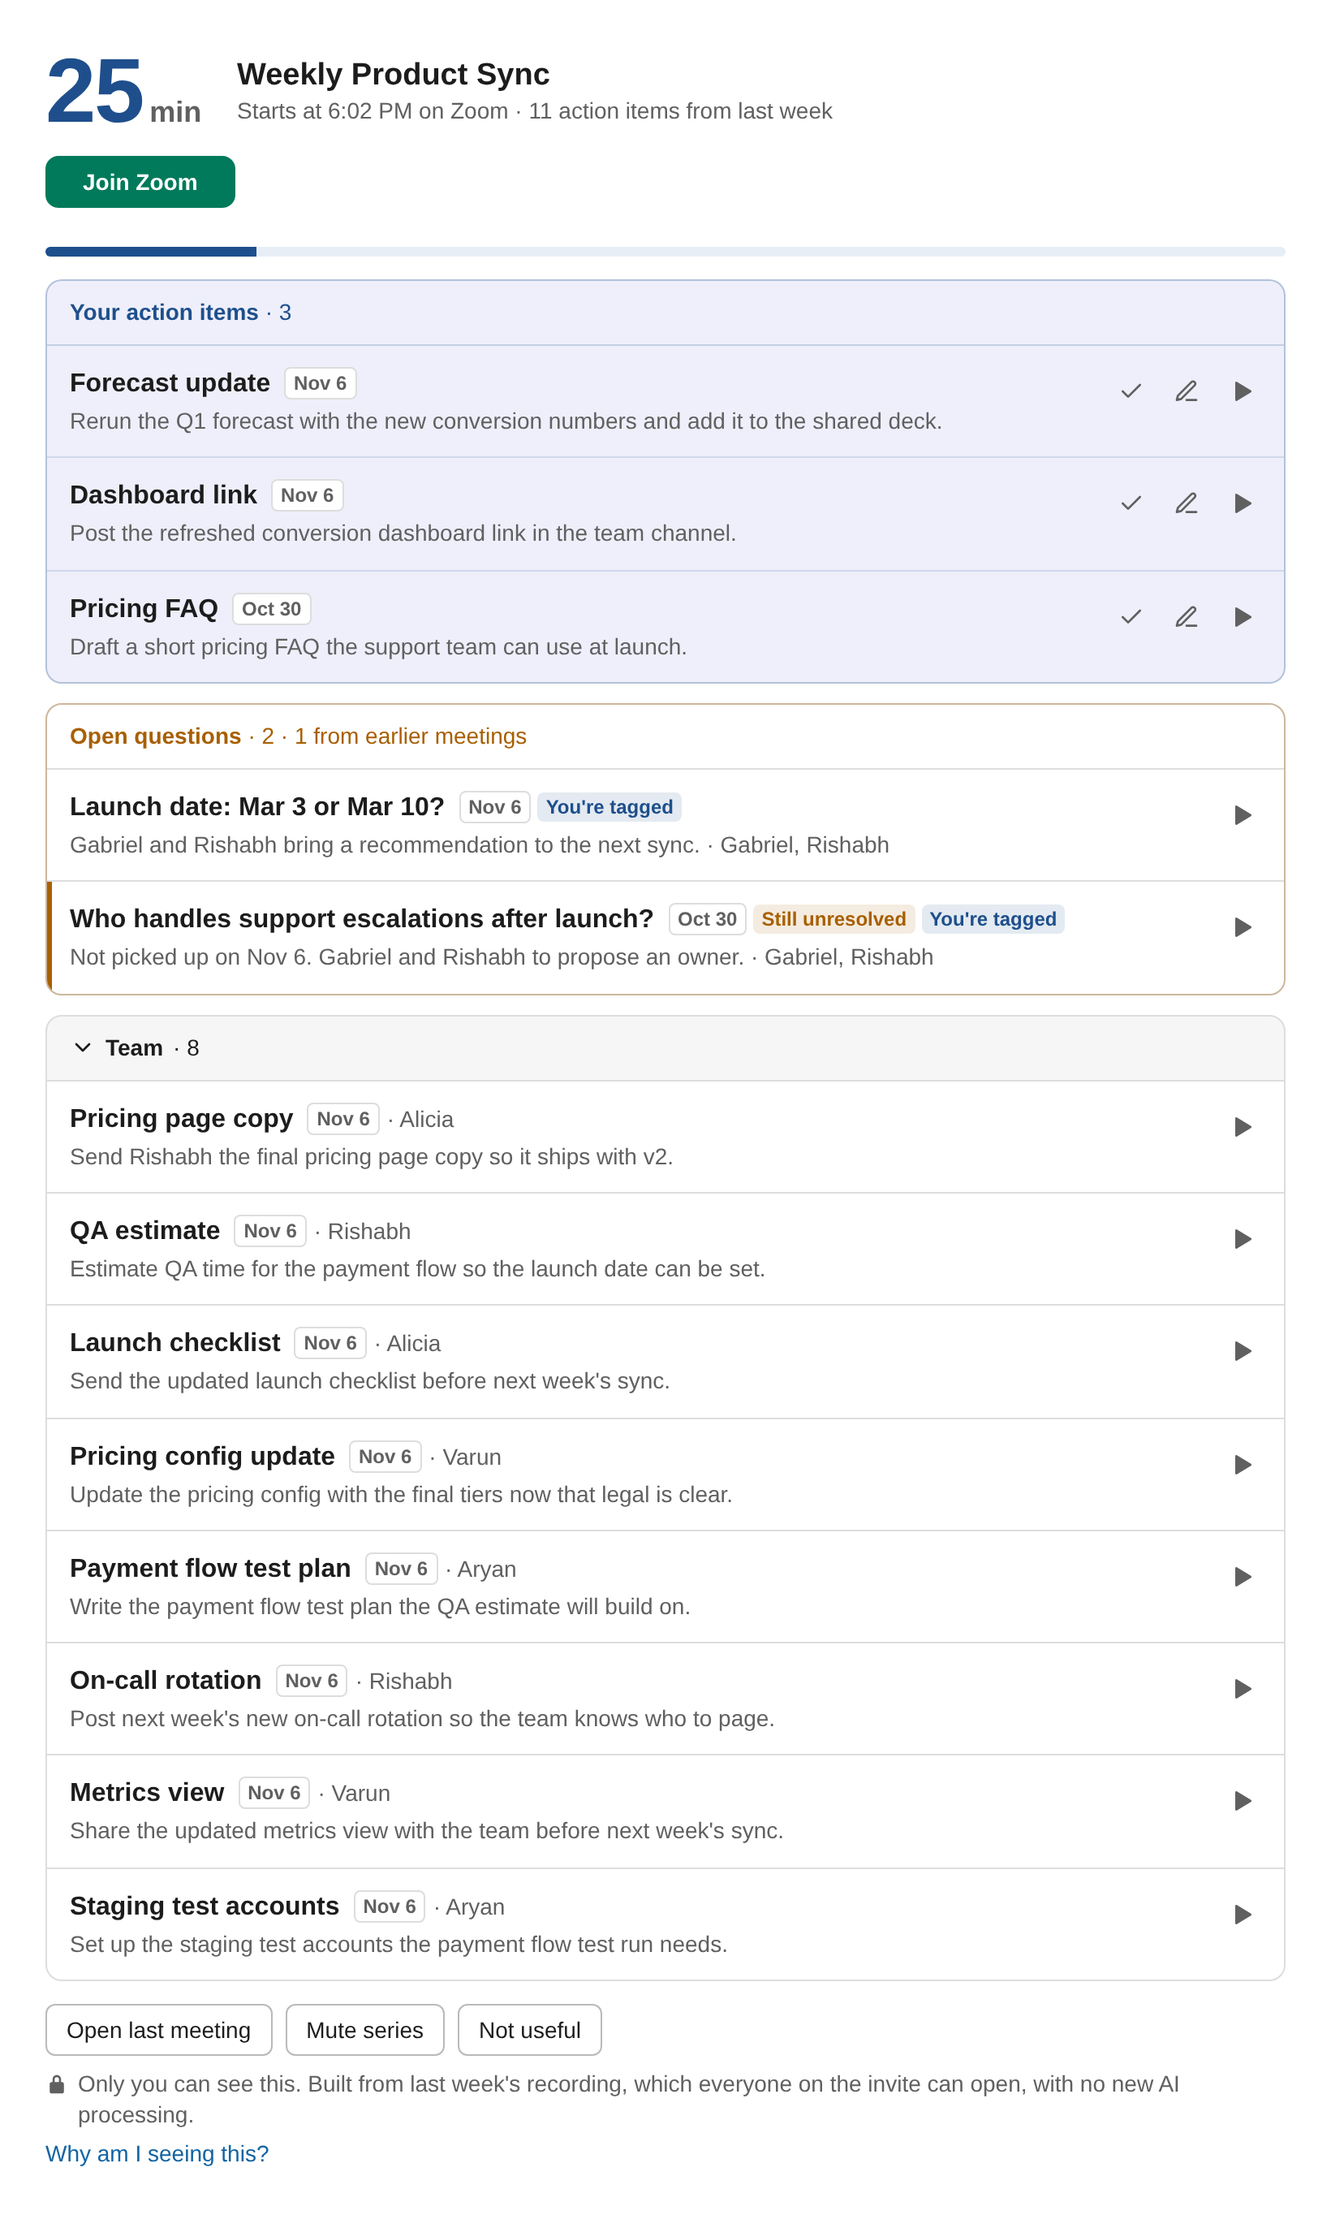
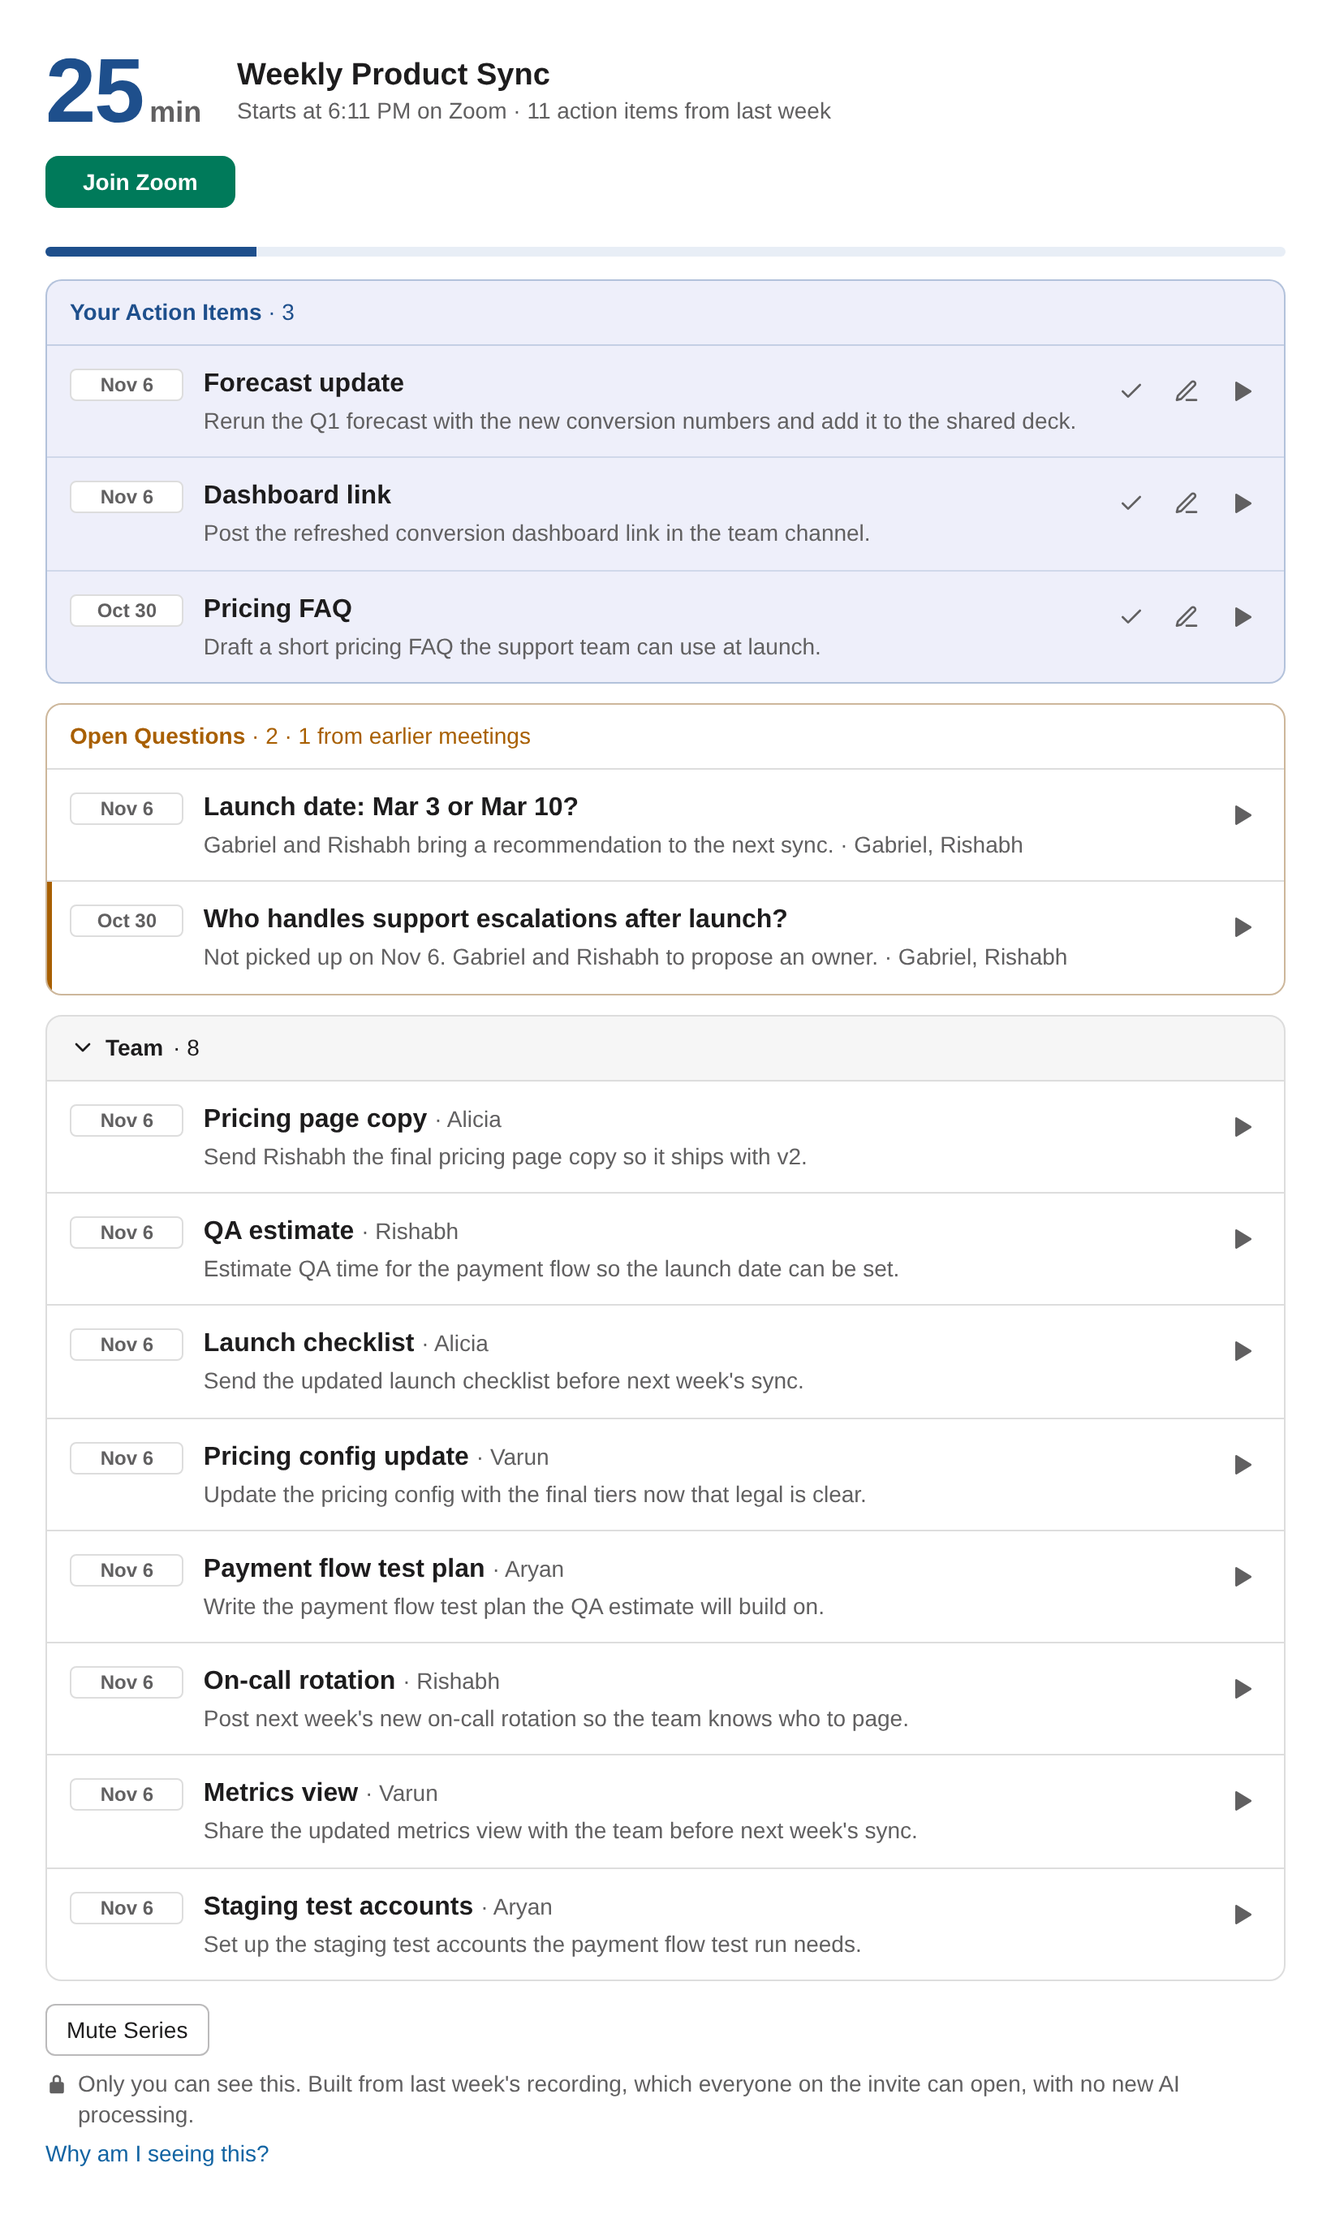
Heads-Up card in Ansel: aligned date column, plainer open questions, title-case headings, Mute Series only
Claude-Session: https://claude.ai/code/session_01SoGk1VkQgGD6LEJ7c356qP

diff --git a/card/heads-up-card.js b/card/heads-up-card.js
@@ -264,11 +264,13 @@
     :host([embedded]) .r.q.q-stale { box-shadow: inset 3px 0 0 var(--soon); }
     :host([embedded]) .tag { font-size: 12px; }
     :host([embedded]) .stack .rows { gap: 0; }
-    :host([embedded]) .r { grid-template-columns: minmax(0, 1fr) auto; column-gap: 12px; padding: 12px 10px 12px 14px; border-radius: 0; }
+    :host([embedded]) .r { grid-template-columns: 4.4em minmax(0, 1fr) auto; column-gap: 12px; padding: 12px 10px 12px 14px; border-radius: 0; }
     :host([embedded]) .r + .r { border-top: 1px solid var(--line); }
     :host([embedded]) .mine-stack .r + .r { border-top-color: color-mix(in srgb, var(--ansel) 14%, transparent); }
     :host([embedded]) .rail { display: none; }
-    :host([embedded]) .acts { grid-column: 2; align-self: start; justify-content: flex-end; flex-wrap: nowrap; gap: 2px; }
+    :host([embedded]) .dcol { align-self: start; padding-top: 2px; }
+    :host([embedded]) .dcol .tag.date { display: block; margin: 0; text-align: center; }
+    :host([embedded]) .acts { grid-column: 3; align-self: start; justify-content: flex-end; flex-wrap: nowrap; gap: 2px; }
     :host([embedded]) .ask { grid-column: 1 / -1; }
     :host([embedded]) .r.mine { background: none; }
     :host([embedded]) .r.mine.is-done { background: var(--done-bg); }
@@ -641,11 +643,12 @@
         aria-label="Play transcript${esc(spokenDate)} at ${esc(spokenStamp(item.seconds))}: ${esc(item.text)}">▶ ${esc(date)}${esc(fmtStamp(item.seconds))}</button>`;
     }
 
-    // Embedded: a small tag with the date of the meeting the item comes from ("Nov 6"). Standalone
-    // rows show the date on the ▶ button instead.
-    _dateTag(item) {
-      if (!this.hasAttribute('embedded') || !item.dateLabel) return '';
-      return ` <span class="tag date" title="From the ${esc(item.dateLabel)} meeting">${esc(item.dateLabel)}</span>`;
+    // Embedded: the date of the item's meeting ("Nov 6") as a fixed-width tag in the row's first
+    // column, so the dates line up down the card. Standalone rows show the date on the ▶ button instead.
+    _dateCol(item) {
+      if (!this.hasAttribute('embedded')) return '';
+      const tag = item.dateLabel ? `<span class="tag date" title="From the ${esc(item.dateLabel)} meeting">${esc(item.dateLabel)}</span>` : '';
+      return `<span class="dcol">${tag}</span>`;
     }
 
     // One action item. Status (YOURS, Mark done / ✓ Done, the green row) shows only on the viewer's own items.
@@ -706,8 +709,8 @@
         </div>` : '';
 
       const cls = ['r', mine ? 'mine' : '', done ? 'is-done' : '', flag ? 'is-flagged' : ''].join(' ').replace(/\s+/g, ' ').trim();
-      return `<div class="${cls}" role="listitem"><span class="rail" aria-hidden="true"></span>
-        <div class="t"><span class="task">${esc(it.text)}</span>${this._dateTag(it)}${it.edited ? ` <span class="edited" title="${esc(it.edited)}">Edited</span>` : ''}${who}${summary}</div>
+      return `<div class="${cls}" role="listitem"><span class="rail" aria-hidden="true"></span>${this._dateCol(it)}
+        <div class="t"><span class="task">${esc(it.text)}</span>${it.edited ? ` <span class="edited" title="${esc(it.edited)}">Edited</span>` : ''}${who}${summary}</div>
         <div class="acts">${acts.join('')}</div>${ask}</div>`;
     }
 
@@ -725,7 +728,7 @@
         // Embedded: stacked cards. Your action items, then Open questions, then Team, which folds
         // closed to its heading (closed by default; card.expanded = true opens it).
         const rowsOf = (items, isMine) => `<div class="rows" role="list">${items.map((it) => this._rowHtml(it, isMine)).join('')}</div>`;
-        const yours = mine.length ? `<section class="stack mine-stack" aria-label="Your action items"><div class="stack-h">Your action items <span class="n">· ${mine.length}</span></div>
+        const yours = mine.length ? `<section class="stack mine-stack" aria-label="Your Action Items"><div class="stack-h">Your Action Items <span class="n">· ${mine.length}</span></div>
             ${rowsOf(mine, true)}</section>` : '';
         const open = !!this._ui.showAll;
         const team = others.length ? `<section class="stack team-stack${open ? ' open' : ''}" aria-label="Team">
@@ -752,18 +755,17 @@
 
     _questionRowHtml(q) {
       const people = (q.stakeholders || []).map((p) => p.name).filter(Boolean);
-      // Embedded rows already carry the meeting date tag, so the stale tag just says it's still open.
-      const staleText = this._dateTag(q) ? 'Still unresolved' : `Unresolved since ${esc(q.dateLabel || 'earlier')}`;
+      // Embedded: just the date column; standalone rows flag older and tagged questions in words.
+      const emb = this.hasAttribute('embedded');
       const tags = [
-        this._dateTag(q),
-        q.carriedOver ? `<span class="tag stale" title="Raised ${esc(q.dateLabel || 'earlier')} and not resolved since">${staleText}</span>` : '',
-        q.mine ? '<span class="tag you">You\'re tagged</span>' : '',
+        !emb && q.carriedOver ? `<span class="tag stale" title="Raised ${esc(q.dateLabel || 'earlier')} and not resolved since">Unresolved since ${esc(q.dateLabel || 'earlier')}</span>` : '',
+        !emb && q.mine ? '<span class="tag you">You\'re tagged</span>' : '',
         q.edited ? '<span class="edited">Edited</span>' : '',
       ].join('');
       const who = people.length ? `<span class="who">${q.context ? ' · ' : ''}${esc(people.join(', '))}</span>` : '';
       const sub = q.context || who ? `<span class="summary">${q.context ? esc(q.context) : ''}${who}</span>` : '';
       const cls = ['r', 'q', q.mine ? 'q-mine' : '', q.carriedOver ? 'q-stale' : ''].join(' ').replace(/\s+/g, ' ').trim();
-      return `<div class="${cls}" role="listitem"><span class="rail" aria-hidden="true"></span>
+      return `<div class="${cls}" role="listitem"><span class="rail" aria-hidden="true"></span>${this._dateCol(q)}
         <div class="t"><span class="task">${esc(q.text)}</span> ${tags}${sub}</div>
         <div class="acts">${this._playButton(q, 'openQuestions')}</div></div>`;
     }
@@ -774,7 +776,7 @@
       const stale = qs.filter((q) => q.carriedOver).length;
       const note = stale ? ` <span class="n">· ${stale} from earlier meetings</span>` : '';
       if (this.hasAttribute('embedded')) {
-        return `<section class="stack q-stack" aria-label="Open questions"><div class="stack-h">Open questions <span class="n">· ${qs.length}</span>${note}</div>
+        return `<section class="stack q-stack" aria-label="Open Questions"><div class="stack-h">Open Questions <span class="n">· ${qs.length}</span>${note}</div>
           <div class="rows" role="list">${qs.map((q) => this._questionRowHtml(q)).join('')}</div></section>`;
       }
       return `<div class="qs"><div class="qs-h">Open questions · ${qs.length}${stale ? ` (${stale} from earlier meetings)` : ''}</div>
@@ -789,10 +791,12 @@
         ${this._rowsHtml(d)}
         ${this.hasAttribute('embedded') ? '' : this._questionsHtml(d)}
         ${ui.notUseful ? this._notUsefulHtml() : ''}
-        <div class="bar">
-          <button data-act="open-last" data-key="open-last" class="btn">Open last meeting</button>
+        <div class="bar">${this.hasAttribute('embedded')
+          // Embedded (Ansel): the app already has the meeting open, so only Mute Series.
+          ? '<button data-act="mute" data-key="mute" class="btn">Mute Series</button>'
+          : `<button data-act="open-last" data-key="open-last" class="btn">Open last meeting</button>
           <button data-act="mute" data-key="mute" class="btn">Mute series</button>
-          ${ui.notUseful ? '' : '<button data-act="not-useful" data-key="not-useful" class="btn">Not useful</button>'}
+          ${ui.notUseful ? '' : '<button data-act="not-useful" data-key="not-useful" class="btn">Not useful</button>'}`}
         </div>
         <div class="context foot">${LOCK}<span>Only you can see this. Built from ${esc(d.lastMeeting.label || "last week's recording")},
           which everyone on the invite can open, with no new AI processing.</span></div>

diff --git a/current_status.md b/current_status.md
@@ -15,7 +15,7 @@ This is not yet an always-on or production deployment. The current process runs 
 ## Completed
 
 - **Countdown follows the Slack ping (2026-11-13)**: every link in the Slack card now carries the meeting's real start (`&start=<epoch seconds>`). Opening it sets the prototype's clock so the Heads-Up countdown matches the Slack card, and reopening the link later continues the countdown instead of restarting at 1:25 PM. The prototype's clock now runs on real time, so it also keeps time in a background tab. Links without `start` behave as before. Needs the VM update (`setup-vm.sh`) after merge.
-- **Open questions on the Heads-Up card in Ansel (2026-11-13)**: the card now lists every open question still unresolved from the last meeting and the earlier ones you attended, under the action items. Questions you're tagged on come first ("You're tagged"); ones raised before last meeting are flagged "Still unresolved". Every row on the card, action items and questions, now has a small tag with its meeting's date ("Nov 6"). Order: your action items, open questions, then Team, which starts folded and opens from its heading. Hovering ▶ shows the date and timestamp instantly. Each has its summary context line, its stakeholders and ▶ to the transcript moment. New seed question q3 (Oct 30, Gabriel and Rishabh): "Who handles support escalations after launch?", not picked up on Nov 6. Slack card unchanged. Contract 2.3.
+- **Open questions on the Heads-Up card in Ansel (2026-11-13)**: the card now lists every open question still unresolved from the last meeting and the earlier ones you attended, under the action items. Questions you're tagged on come first ("You're tagged"); ones raised before last meeting are flagged "Still unresolved". Every row on the card, action items and questions, now has a small tag with its meeting's date ("Nov 6"). Order: Your Action Items, Open Questions, then Team, which starts folded and opens from its heading. Hovering ▶ shows the date and timestamp instantly. The date tag sits in its own column on the left so dates line up; open questions carry no extra tags; the footer has only Mute Series. Each has its summary context line, its stakeholders and ▶ to the transcript moment. New seed question q3 (Oct 30, Gabriel and Rishabh): "Who handles support escalations after launch?", not picked up on Nov 6. Slack card unchanged. Contract 2.3.
 - **Earlier meetings on the Slack card (2026-11-13)**: your action items still open from earlier meetings (up to 3 earlier recorded meetings you attended) now appear after last meeting's, and every timestamp names its meeting's date ("Pricing FAQ (Oct 30 · 24:10)"). Seed: one still-open item each for Gabriel and Rishabh (Oct 30) and Alicia and Varun (Oct 23), with transcript lines. Contract 2.1.
 - **Condensed Slack card live and confirmed in Slack (2026-11-13)**: one text block and one row of buttons (✓, Join Zoom, Open in Ansel, Mute Series, then a small "Open in Ansel to make changes." note; "You own N items" is bold; Still Open, Decided and Not Useful are off the Slack card); your item links to its transcript moment; several items of yours get checkboxes. Other people's items, Not right and the transcript are in Ansel. Previews and the real output: `card/slack-mockups/`. Zoom is the default demo join link.
 - **Slack card redesigned to match `card/` (contract 2.0)**: countdown with Join, every action item from last meeting with owners (yours first, `YOURS`), Mark done, Not right with reasons, Not useful with reasons, Mute with Undo, "Why am I seeing this?" and the trust footer; the same event names as `card/CONTRACT.md`. Card tests: `slack-app/test/card.mjs`.

diff --git a/card/CONTRACT.md b/card/CONTRACT.md
@@ -105,10 +105,10 @@ Setting `card.data` again re-renders from the new data. If it is the same viewer
 | (status) | Status shows only on the viewer's own items: YOURS, Mark done or "✓ Done", and the green row. Other people's rows never show open or done |
 | `item.seconds` | Position in the transcript of the item's meeting (`item.meetingId`, else last meeting); shown as mm:ss on the ▶ button |
 | `item.summary` | Optional, one short line under the task. Take it from Ansel's existing meeting summary, so the card adds no new AI processing. No due dates: those get set in the meeting |
-| (embedded, 2.3) | With `<heads-up-card embedded>` the card shows every item it is given, in stacked cards: **Your action items**, then **Open questions**, then **Team**. Team folds to its heading and starts closed; tapping the heading opens it, and the host can open it with `card.expanded = true`. Pass every item and `moreCount: 0` |
+| (embedded, 2.3) | With `<heads-up-card embedded>` the card shows every item it is given, in stacked cards: **Your Action Items**, then **Open Questions**, then **Team**. Team folds to its heading and starts closed; tapping the heading opens it, and the host can open it with `card.expanded = true`. Pass every item and `moreCount: 0` |
 | (embedded, 2.3) | Hovering or focusing ▶ shows the meeting date and timestamp ("Nov 6 · 14:32") straight away, as a tooltip with no delay |
 | (embedded, 2.2) | Embedded action items are two stacked cards, **Your action items · N** and **Team · N**, rows split by a hairline with borderless icon buttons on the right. Rows use icon buttons (▶ with date and time in its tooltip, ✓ Mark done, ✎ Edit), tint your own rows with `--mine-bg` with no name or YOURS tag (they sit under Your action items), and drop **Not right** from other people's items. Standalone rendering is unchanged |
-| (embedded, 2.3) | Every embedded row (action items and open questions) shows a small date tag for the meeting it comes from (`item.dateLabel`, e.g. "Nov 6"). Standalone rows keep the date on the ▶ button |
+| (embedded, 2.3) | Every embedded row (action items and open questions) starts with a fixed-width date tag for the meeting it comes from (`item.dateLabel`, e.g. "Nov 6"), so the dates line up down the card. Open questions show no "You're tagged" or "Unresolved since" tags when embedded (standalone keeps them). Headings read **Your Action Items**, **Open Questions**, **Team**. The embedded footer has only **Mute Series** (no Open last meeting or Not useful). Standalone rows keep the date on the ▶ button |
 | `item.editable` | 2.2. Optional. `true` shows **Edit** on the row and fires `edit_tap` (payload `itemId`, `section`, `meetingId`); on the viewer's own items it replaces Not right. The app decides who can edit (Ansel: the item's owner or the organizer) and records the change |
 | `item.edited` | 2.2. Optional text, e.g. "Edited by Gabriel · Nov 13 · was …". Shows an **Edited** tag on the row with that text as its tooltip |
 | `item.done` | Optional, viewer's items only; `true` shows the row as done (green background, "✓ Done"). Ignored on other people's items |

diff --git a/docs/ansel-mockup-spec.md b/docs/ansel-mockup-spec.md
@@ -97,7 +97,7 @@ Layout sketch (the player is audio only):
 - Demo-only shortcut: anyone with a forwarded link sees Ansel as that person. A real product would use the signed-in user.
 
 **Series list expands in place; no Action items tab (branch `rishabh/ansel-polish-8`)**
-- The card in Ansel gets every item: your action items, then open questions, then **Team**, which starts folded to its heading and opens in place, instead of "+N more in Ansel" linking out (the standalone pages and Slack keep the link). Hovering ▶ shows the meeting date and timestamp instantly.
+- The card in Ansel gets every item: your action items, then open questions, then **Team**, which starts folded to its heading and opens in place, instead of "+N more in Ansel" linking out (the standalone pages and Slack keep the link). Hovering ▶ shows the meeting date and timestamp instantly. Each row starts with its meeting's date in an aligned column; the footer has only **Mute Series**.
 - The meeting screen has **Transcript · Summary** only; a meeting's own items are in the Summary's action item table.
 - Old links to the Action items tab (Slack's "N more from the team", `#ansel/<meeting>/actions/`) open the Meetings page with that series' card expanded.
 
